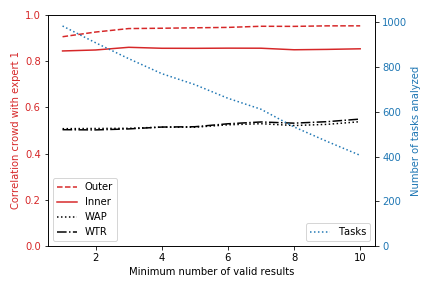
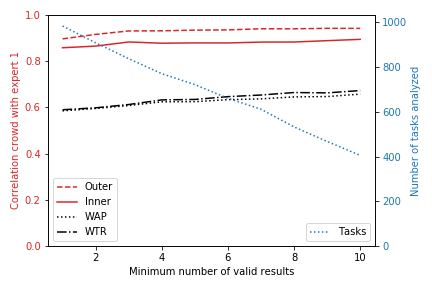
Investigating low WAPs

diff --git a/analyze.py b/analyze.py
@@ -237,7 +237,7 @@ def plot_correlation_valid(df_task_combined, df_truth, combine_type):
     
     key = '_' + combine_type
         
-    minimum_results = np.arange(1,11)
+    minimum_results = np.arange(1,19)
     n_min = len(minimum_results)
     corr_inner = np.zeros(n_min)
     corr_outer = np.zeros(n_min)
@@ -249,13 +249,15 @@ def plot_correlation_valid(df_task_combined, df_truth, combine_type):
     for idx, m in enumerate(minimum_results):
     
         df_task_subset = df_task_combined.loc[df_task_combined['num_combined']>=m]
-    
         corr_inner[idx] = df_task_subset['inner1'].corr(df_task_subset['inner' + key])
         corr_outer[idx] = df_task_subset['outer1'].corr(df_task_subset['outer' + key])
         corr_WTR[idx] = df_task_subset['wtr1'].corr(df_task_subset['wtr' + key])
         corr_WAP[idx] = df_task_subset['wap1'].corr(df_task_subset['wap' + key])
         num_tasks[idx] = df_task_subset['task_id'].count()
            
+    print(num_tasks)
+    print(corr_inner)    
+        
     fig, ax1 = plt.subplots()
     
     color = 'tab:red'
@@ -265,6 +267,7 @@ def plot_correlation_valid(df_task_combined, df_truth, combine_type):
     ax1.plot(minimum_results, corr_inner, label='Inner',  color=color, linestyle='-')
     ax1.plot(minimum_results, corr_WAP, label='WAP',  color='k', linestyle=':')
     ax1.plot(minimum_results, corr_WTR, label='WTR',  color='k', linestyle='-.')
+    ax1.set_xticks(minimum_results)
     ax1.tick_params(axis='y', labelcolor=color)
     ax1.legend(loc='lower left')
     ax1.set_ylim(0,1)
@@ -390,6 +393,8 @@ def print_subject(df_subject, df_task_combined, df_truth, combine_type):
     df_corr = pd.merge(df_subject, df_corr, on='subject_id', how='outer')    
     
     df_select = df_corr[['subject_id', 'has_cf', 'FVC1_ppred', 'FEV1_ppred', 'n', 'inner1_inner', 'outer1_outer', 'wap1_wap', 'wtr1_wtr']]
+
+    
 
     print(df_select.to_latex(float_format="%.2f"))
     
@@ -566,3 +571,19 @@ def scatter_correlation_experts(df_task_combined, df_truth, combine_type):
     fig.savefig(os.path.join(fig_path, 'scatter_experts' + key + '.png'), format="png")
     #DOESNT WORK
 
+def debug_low():
+    df_task, df_res, df_annot, df_truth, df_subject = crowdload.get_df_processed()
+    df_res_valid, df_res_invalid = crowdcombine.get_valid_results(df_res)
+    df1 = pd.merge(df_task, df_res_valid, on='subject_id', how='outer')
+    df1 = pd.merge(df_task, df_res_valid, on='task_id', how='outer')
+    
+    #Subject with low WAP/WTR, but OK inner/outer
+    df1 = df1.loc[df1['subject_id'] == 3]
+    df1 = pd.merge(df_task, df_res_valid, on='task_id', how='outer')
+    df2 = df1.loc[df1['subject_id'] == 3]
+    
+    df4 = pd.merge(df2, df_truth, on='task_id', how='outer')
+    df4.plot.scatter('inner1','inner_median')
+    df4.plot.scatter('inner1','inner')
+    df4.plot.scatter('outer1','outer')
+    df4.plot.scatter('wap1','wap')

diff --git a/main.py b/main.py
@@ -49,8 +49,8 @@ def main():
     #crowdanalyze.scatter_correlation_expert_crowd(df_task_median, df_truth, 'median')
 
     #Select best result per task (optimistically biased, uses ground truth!)
-    df_task_best = crowdcombine.get_task_best(df_task, df_res_valid, df_truth) 
-    crowdanalyze.scatter_correlation_expert_crowd(df_task_best, df_truth, 'best')
+    #df_task_best = crowdcombine.get_task_best(df_task, df_res_valid, df_truth) 
+    #crowdanalyze.scatter_correlation_expert_crowd(df_task_best, df_truth, 'best')
 
 
     #Correlation vs minimum number of available valid results 
@@ -62,7 +62,7 @@ def main():
 
     #crowdanalyze.predict_subject_correlation(df_subject, df_task_median, df_truth, 'median')
     
-    #crowdanalyze.print_subject(df_subject, df_task_median, df_truth, 'median')
+    crowdanalyze.print_subject(df_subject, df_task_median, df_truth, 'median')
      
     #crowdanalyze.scatter_correlation_experts(df_task_median, df_truth, 'median')
      
@@ -93,6 +93,22 @@ def temp():
    
     #crowdanalyze.predict_subject_correlation(df_subject, df_task_median, df_truth, 'median')
 
+def debug_low():
+    df_task, df_res, df_annot, df_truth, df_subject = crowdload.get_df_processed()
+    df_res_valid, df_res_invalid = crowdcombine.get_valid_results(df_res)
+    df1 = pd.merge(df_task, df_res_valid, on='subject_id', how='outer')
+    df1 = pd.merge(df_task, df_res_valid, on='task_id', how='outer')
+    
+    #Subject with low WAP/WTR, but OK inner/outer
+    df1 = df1.loc[df1['subject_id'] == 3]
+    df1 = pd.merge(df_task, df_res_valid, on='task_id', how='outer')
+    df2 = df1.loc[df1['subject_id'] == 3]
+    
+    df4 = pd.merge(df2, df_truth, on='task_id', how='outer')
+    df4.plot.scatter('inner1','inner_median')
+    df4.plot.scatter('inner1','inner')
+    df4.plot.scatter('outer1','outer')
+    df4.plot.scatter('wap1','wap')
     
     
     
